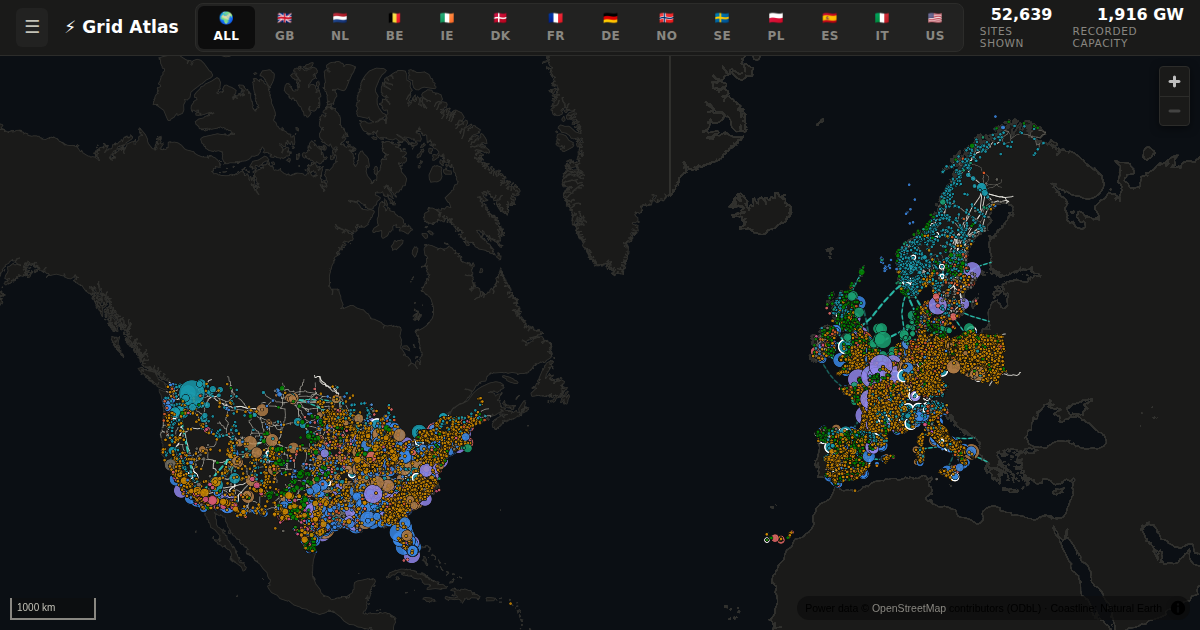
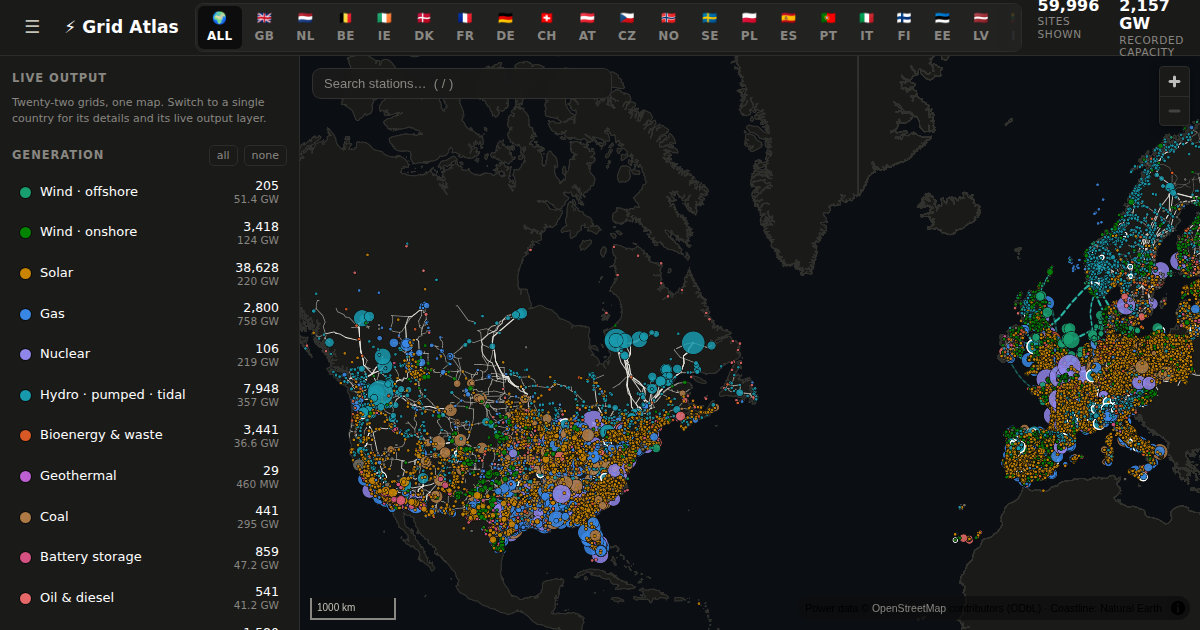
Refresh README and social card for the 22-grid atlas

diff --git a/README.md b/README.md
@@ -4,7 +4,7 @@
 [![CI](https://github.com/jacobwright32/uk-grid-atlas/actions/workflows/ci.yml/badge.svg)](https://github.com/jacobwright32/uk-grid-atlas/actions/workflows/ci.yml)
 [![Deploy](https://github.com/jacobwright32/uk-grid-atlas/actions/workflows/deploy.yml/badge.svg)](https://github.com/jacobwright32/uk-grid-atlas/actions/workflows/deploy.yml)
 
-[![Grid Atlas — interactive dark map of generation, transmission and live output across GB, Europe and the US](public/og.png)](https://jacobwright32.github.io/uk-grid-atlas/)
+[![Grid Atlas — interactive dark map of generation, transmission and live output across Europe and North America](public/og.png)](https://jacobwright32.github.io/uk-grid-atlas/)
 
 An interactive, dark-mode atlas of power grids — Great Britain in full detail,
 nineteen European countries, the United States, Canada, and a transatlantic ALL view:
@@ -17,29 +17,31 @@ rendering, Google-Maps-style pan/zoom, no API keys required.
 
 ## Features
 
-- **Tens of thousands of generation sites across twenty-two grids** — nuclear, gas, offshore/onshore wind, solar,
-  hydro, pumped storage, bioenergy, battery storage and more — each sized by
-  installed capacity and coloured by fuel. Hover for a card with capacity,
-  operator and commissioning date; click to pin it.
-- **The high-voltage network** — 400 kV and 275 kV circuits across GB,
-  132 kV in Scotland (where it is transmission voltage), and Northern
-  Ireland's 275 kV ring, styled by voltage class.
-- **HVDC links** — all operational interconnectors (France, Belgium, the
-  Netherlands, Norway, Denmark, Ireland) plus intra-GB reinforcements
-  (Western Link, Caithness–Moray, Shetland) and under-construction links
-  (Eastern Green Links, NeuConnect) shown dashed/faded.
+- **~60,000 generation sites across twenty-two grids on two continents** —
+  nuclear, gas, offshore/onshore wind, solar, hydro, pumped storage,
+  bioenergy, geothermal, battery storage and more — each sized by installed
+  capacity and coloured by fuel. Hover for a card with capacity, operator
+  and commissioning date; click to pin it. Station search on `/`.
+- **The transmission backbone of every grid** — from Hydro-Québec's 735 kV
+  to the Baltic 330 kV standard, styled by voltage class and streamed from
+  a single PMTiles vector archive (only the tiles in view download).
+- **55 HVDC links** — every operational interconnector plus in-country
+  reinforcements and under-construction links (dashed/faded). Links with a
+  known flow glow teal (importing) or amber (exporting), width tracking
+  utilisation.
+- **Live output, five sources, zero API keys in the browser** — GB per
+  station via Elexon (PN right now + the metered day, half-hourly); 19
+  European countries per station/mix via ENTSO-E snapshots; Ontario per
+  station via IESO's public report; Texas + New York fuel mixes via ERCOT
+  and NYISO. Refreshed every 6 hours by a scheduled workflow. Dots resize
+  by live output (bright) over capacity (ghost).
+- **Scrub the metered day** — a time slider plays any grid's day back:
+  station dots, the mix strip, HVDC flows and the wholesale-price line all
+  follow the slider. The default view shows *today so far*, hours old.
+- **Wholesale prices** — ENTSO-E day-ahead per bidding zone (averaged for
+  multi-zone countries) and GB's market-index price, in the mix strip.
 - **Legend-as-filter** — toggle any fuel group or network class; headline
   counts and GW totals track what's visible.
-- **Live output layer** — GB: per-station figures from the free, key-less
-  Elexon Insights API, fetched directly by the browser (the API is
-  CORS-open): scheduled output _right now_ (PN), the latest fully-metered
-  day (B1610: average/peak/energy + a half-hourly sparkline and load factor
-  in every hover card), live interconnector flows on the HVDC lines, and a
-  national transmission-mix strip (collapsible to a compact chip — it starts
-  collapsed on phones). EU: the six European grids show the latest ENTSO-E
-  metered day per station plus the daily generation mix, refreshed every
-  6 hours by a scheduled workflow. Dots resize by live output (bright) over
-  capacity (ghost); toggle it off in the sidebar.
 - **Self-contained dark basemap** (Natural Earth coastline) with an optional
   online CARTO raster underlay for street-level context.
 
@@ -124,9 +126,14 @@ Hydro-Québec's 735 kV network plus the Nelson River, Québec–New England,
 Labrador–Island and Maritime HVDC links) — plus a transatlantic ALL view that merges the
 lot. Each country is ~30 lines of config in `scripts/build-data.mjs` +
 `src/lib/countries.ts` plus its raw extracts — adding another is an
-afternoon, not a project. Live output: GB via Elexon (browser-side); every European grid via
-ENTSO-E snapshots (the Nordics and Italy are mix-only — their TSOs publish
-little per-unit data); a US live layer (EIA hourly API) is on the roadmap.
+afternoon, not a project. Live output: GB via Elexon (browser-side); every
+European grid via ENTSO-E snapshots (the Nordics and Italy are mix-only —
+their TSOs publish little per-unit data); Ontario per station via IESO's
+public report; Texas + New York fuel mixes via ERCOT and NYISO — every
+source free and key-less (only the workflow's ENTSO-E token needs a free
+account). Countries whose mappers tag single turbines instead of farms
+(FI/AT/EE) get synthetic wind-farm stations via
+`scripts/pbf-extract-generators.py` + `scripts/cluster-wind.mjs`.
 
 | Layer                  | Source                                                       | Notes                                                                                                                                                                                   |
 | ---------------------- | ------------------------------------------------------------ | --------------------------------------------------------------------------------------------------------------------------------------------------------------------------------------- |
@@ -138,6 +145,10 @@ little per-unit data); a US live layer (EIA hourly API) is on the roadmap.
 | BMU → station map      | Elexon `reference/bmunits/all` + `scripts/build-bmu-map.mjs` | Fuzzy name match with fuel-type guards + manual overrides; ~87% of BM-registered capacity mapped (rest is mostly retired plant)                                                         |
 | Live output (GB)       | Elexon Insights API (browser-side)                           | B1610 per-unit metered actuals (published ~a week behind), PN scheduled levels (now), `generation/outturn/summary` mix; snapshot baked by `scripts/fetch-live-snapshot.mjs` for offline |
 | Live output (EU)       | ENTSO-E Transparency API (scheduled workflow)                | A73 per-unit day series mapped to stations, A75 daily mix, A11 HVDC border flows → committed to `public/live/<cc>.json` every 6 h by `.github/workflows/live-snapshots.yml`             |
+| Live output (Canada)   | IESO Generator Output & Capability report (public, key-less) | Per-generator hourly XML → Ontario per-station day series + today-so-far mix, same snapshot shape as the EU                                                                             |
+| Live output (US)       | ERCOT fuel-mix JSON + NYISO rtfuelmix CSV (public, key-less) | Texas + New York hourly fuel mixes (≈⅓ of US generation), mix-only — no US ISO publishes per-plant output openly                                                                        |
+| Wholesale prices       | ENTSO-E A44 day-ahead + Elexon MID (GB)                      | Per bidding zone, averaged for multi-zone countries; today's prices ship with the snapshot (known since yesterday's auction)                                                            |
+| Transmission tiles     | `scripts/build-tiles.mjs` (tippecanoe → PMTiles)             | All 22 countries' lines in one committed range-requested archive; re-run after any `build-data` refresh                                                                                 |
 
 **Licences:** power data © OpenStreetMap contributors, ODbL; Natural Earth is
 public domain. Keep the attribution control visible if you deploy this.